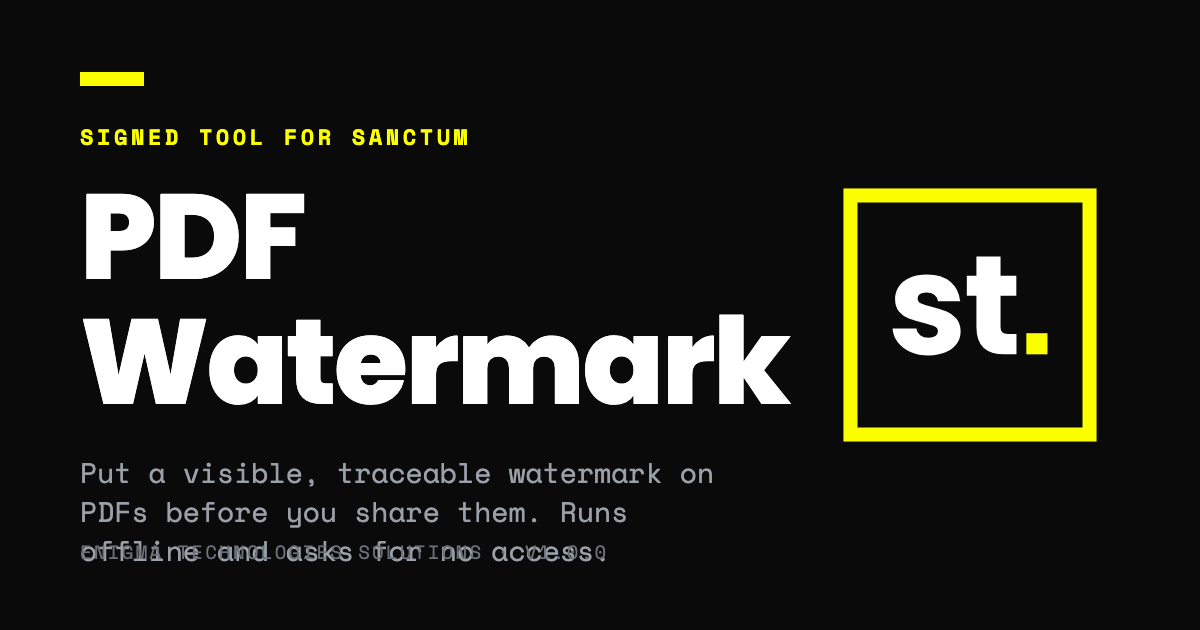
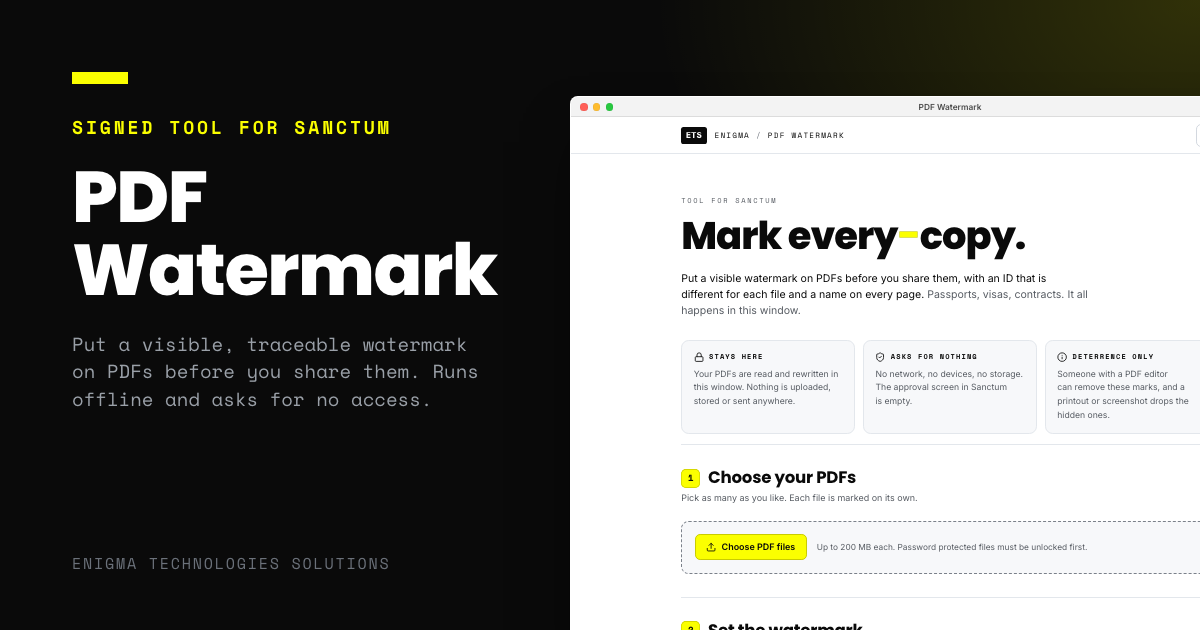
feat(site): social cards that show each tool, with image alt text
Each signed tool's og.png now shows its overview scene from scripts/lib/tool-mocks next to its name and summary, without a version so the card never goes stale. App pages gain og:image:alt and twitter:image:alt.

diff --git a/web/apps/sh.enigma.pdf-watermark/index.html b/web/apps/sh.enigma.pdf-watermark/index.html
@@ -16,10 +16,12 @@
 <meta property="og:image" content="https://sanctum.enigma.sh/apps/sh.enigma.pdf-watermark/og.png">
 <meta property="og:image:width" content="1200">
 <meta property="og:image:height" content="630">
+<meta property="og:image:alt" content="PDF Watermark, a signed tool for Sanctum, shown open in its window.">
 <meta name="twitter:card" content="summary_large_image">
 <meta name="twitter:title" content="PDF Watermark, a signed tool for Sanctum">
 <meta name="twitter:description" content="Put a visible, traceable watermark on PDFs before you share them. Runs offline and asks for no access.">
 <meta name="twitter:image" content="https://sanctum.enigma.sh/apps/sh.enigma.pdf-watermark/og.png">
+<meta name="twitter:image:alt" content="PDF Watermark, a signed tool for Sanctum, shown open in its window.">
 <meta name="theme-color" content="#FFFFFF">
 <meta name="color-scheme" content="light">
 <link rel="icon" href="../../assets/favicon.svg" type="image/svg+xml">

diff --git a/web/apps/sh.enigma.shamir/index.html b/web/apps/sh.enigma.shamir/index.html
@@ -16,10 +16,12 @@
 <meta property="og:image" content="https://sanctum.enigma.sh/apps/sh.enigma.shamir/og.png">
 <meta property="og:image:width" content="1200">
 <meta property="og:image:height" content="630">
+<meta property="og:image:alt" content="Shamir Secret Sharing, a signed tool for Sanctum, shown open in its window.">
 <meta name="twitter:card" content="summary_large_image">
 <meta name="twitter:title" content="Shamir Secret Sharing, a signed tool for Sanctum">
 <meta name="twitter:description" content="Split a secret into shares and combine them back. Runs offline and asks for no access.">
 <meta name="twitter:image" content="https://sanctum.enigma.sh/apps/sh.enigma.shamir/og.png">
+<meta name="twitter:image:alt" content="Shamir Secret Sharing, a signed tool for Sanctum, shown open in its window.">
 <meta name="theme-color" content="#FFFFFF">
 <meta name="color-scheme" content="light">
 <link rel="icon" href="../../assets/favicon.svg" type="image/svg+xml">

diff --git a/web/apps/sh.enigma.hash-check/index.html b/web/apps/sh.enigma.hash-check/index.html
@@ -16,10 +16,12 @@
 <meta property="og:image" content="https://sanctum.enigma.sh/apps/sh.enigma.hash-check/og.png">
 <meta property="og:image:width" content="1200">
 <meta property="og:image:height" content="630">
+<meta property="og:image:alt" content="Hash Check, a signed tool for Sanctum, shown open in its window.">
 <meta name="twitter:card" content="summary_large_image">
 <meta name="twitter:title" content="Hash Check, a signed tool for Sanctum">
 <meta name="twitter:description" content="Check a file against the checksum its publisher gave you. Runs offline and asks for no access.">
 <meta name="twitter:image" content="https://sanctum.enigma.sh/apps/sh.enigma.hash-check/og.png">
+<meta name="twitter:image:alt" content="Hash Check, a signed tool for Sanctum, shown open in its window.">
 <meta name="theme-color" content="#FFFFFF">
 <meta name="color-scheme" content="light">
 <link rel="icon" href="../../assets/favicon.svg" type="image/svg+xml">

diff --git a/web/apps/sh.enigma.otp-vault/index.html b/web/apps/sh.enigma.otp-vault/index.html
@@ -16,10 +16,12 @@
 <meta property="og:image" content="https://sanctum.enigma.sh/apps/sh.enigma.otp-vault/og.png">
 <meta property="og:image:width" content="1200">
 <meta property="og:image:height" content="630">
+<meta property="og:image:alt" content="OTP Vault, a signed tool for Sanctum, shown open in its window.">
 <meta name="twitter:card" content="summary_large_image">
 <meta name="twitter:title" content="OTP Vault, a signed tool for Sanctum">
 <meta name="twitter:description" content="Time-based one-time codes (TOTP) kept in Sanctum storage and optionally on a smart card.">
 <meta name="twitter:image" content="https://sanctum.enigma.sh/apps/sh.enigma.otp-vault/og.png">
+<meta name="twitter:image:alt" content="OTP Vault, a signed tool for Sanctum, shown open in its window.">
 <meta name="theme-color" content="#FFFFFF">
 <meta name="color-scheme" content="light">
 <link rel="icon" href="../../assets/favicon.svg" type="image/svg+xml">
